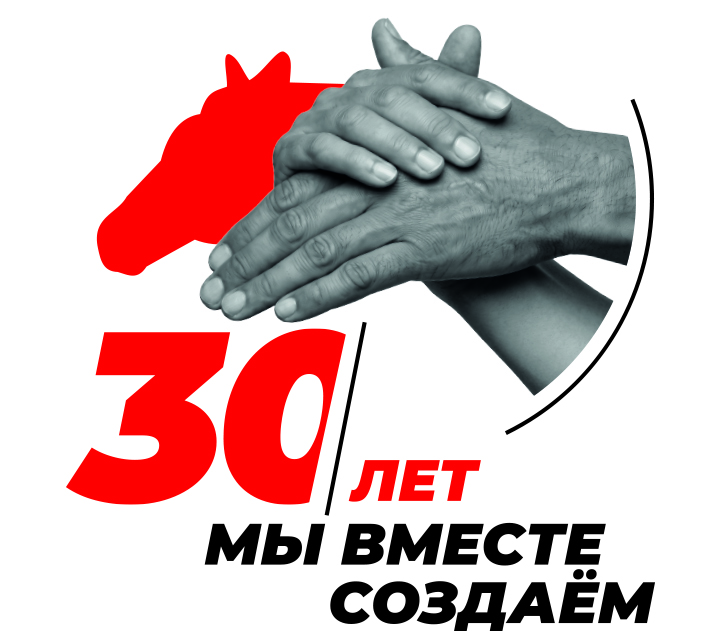
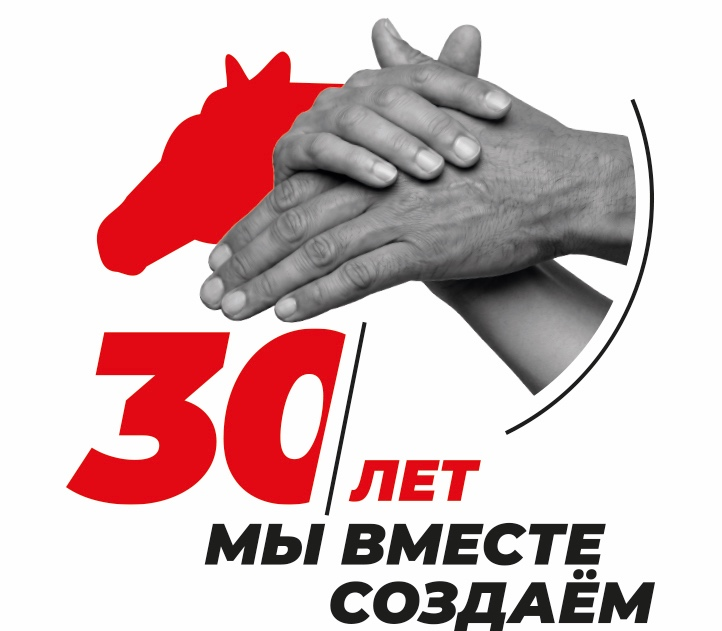
Исправить цвет и пропорции логотипа в PDF бейджей
Конвертация CMYK в RGB PNG и вставка с сохранением соотношения сторон.

diff --git a/src/app/api/admin/badges/pdf/route.ts b/src/app/api/admin/badges/pdf/route.ts
@@ -1,4 +1,5 @@
 import { NextResponse } from "next/server";
+import fs from "fs";
 import path from "path";
 import PDFDocument from "pdfkit";
 import QRCode from "qrcode";
@@ -41,8 +42,19 @@ const COMPANY_SIZE_SMALL = 10;
 const FONT_BEBAS = path.join(process.cwd(), "assets/fonts/BebasNeue-Bold.otf");
 const FONT_MONTSERRAT_BOLD = path.join(process.cwd(), "assets/fonts/Montserrat-Bold.ttf");
 const FONT_MONTSERRAT_MEDIUM = path.join(process.cwd(), "assets/fonts/Montserrat-Medium.ttf");
-const LOGO_PATH = path.join(process.cwd(), "assets/badge-header.jpg");
+/** RGB PNG: исходный bage.jpg в CMYK ломал цвета в PDFKit */
+const LOGO_PATH = path.join(process.cwd(), "assets/badge-header.png");
+const LOGO_NATIVE_W = 722;
+const LOGO_NATIVE_H = 631;
 const CODE_COLOR = "#a9a9a9";
+
+function logoDrawSize() {
+  const scale = Math.min(LOGO_W / LOGO_NATIVE_W, LOGO_H / LOGO_NATIVE_H);
+  return {
+    width: LOGO_NATIVE_W * scale,
+    height: LOGO_NATIVE_H * scale,
+  };
+}
 
 function titleWord(word: string) {
   if (!word) return "";
@@ -84,7 +96,8 @@ async function drawBadgeFace(
   badge: Badge,
   x: number,
   y: number,
-  upsideDown: boolean
+  upsideDown: boolean,
+  logoBuffer: Buffer
 ) {
   doc.save();
   if (upsideDown) {
@@ -94,9 +107,10 @@ async function drawBadgeFace(
     doc.translate(x, y);
   }
 
-  doc.image(LOGO_PATH, (BADGE_W - LOGO_W) / 2, LOGO_TOP, {
-    width: LOGO_W,
-    height: LOGO_H,
+  const logo = logoDrawSize();
+  doc.image(logoBuffer, (BADGE_W - logo.width) / 2, LOGO_TOP + (LOGO_H - logo.height) / 2, {
+    width: logo.width,
+    height: logo.height,
   });
 
   const { line1, line2 } = splitName(badge.fullName);
@@ -192,6 +206,7 @@ function buildPdf(badges: Badge[]): Promise<Buffer> {
         return;
       }
 
+      const logoBuffer = fs.readFileSync(LOGO_PATH);
       const pageW = doc.page.width;
       const pageH = doc.page.height;
       const originX = (pageW - PER_PAGE * BADGE_W) / 2;
@@ -206,8 +221,8 @@ function buildPdf(badges: Badge[]): Promise<Buffer> {
         for (let i = 0; i < pageBadges.length; i++) {
           const badge = pageBadges[i];
           const bx = originX + i * BADGE_W;
-          await drawBadgeFace(doc, badge, bx, originY, false);
-          await drawBadgeFace(doc, badge, bx, originY + BADGE_H, true);
+          await drawBadgeFace(doc, badge, bx, originY, false, logoBuffer);
+          await drawBadgeFace(doc, badge, bx, originY + BADGE_H, true, logoBuffer);
         }
       }
 

diff --git a/src/app/admin/badges/page.tsx b/src/app/admin/badges/page.tsx
@@ -41,7 +41,7 @@ function BadgeFace({ badge }: { badge: Badge }) {
   return (
     <article className="badge-face">
       {/* eslint-disable-next-line @next/next/no-img-element */}
-      <img src="/badge-header.jpg" alt="" className="badge-face__logo" />
+      <img src="/badge-header.png" alt="" className="badge-face__logo" />
       <div className="badge-face__name">
         <span>{badge.nameLine1}</span>
         {badge.nameLine2 ? <span>{badge.nameLine2}</span> : null}

diff --git a/src/app/globals.css b/src/app/globals.css
@@ -171,6 +171,7 @@ body {
   height: 17.4mm;
   transform: translateX(-50%);
   object-fit: contain;
+  object-position: center;
 }
 
 .badge-face__name {
